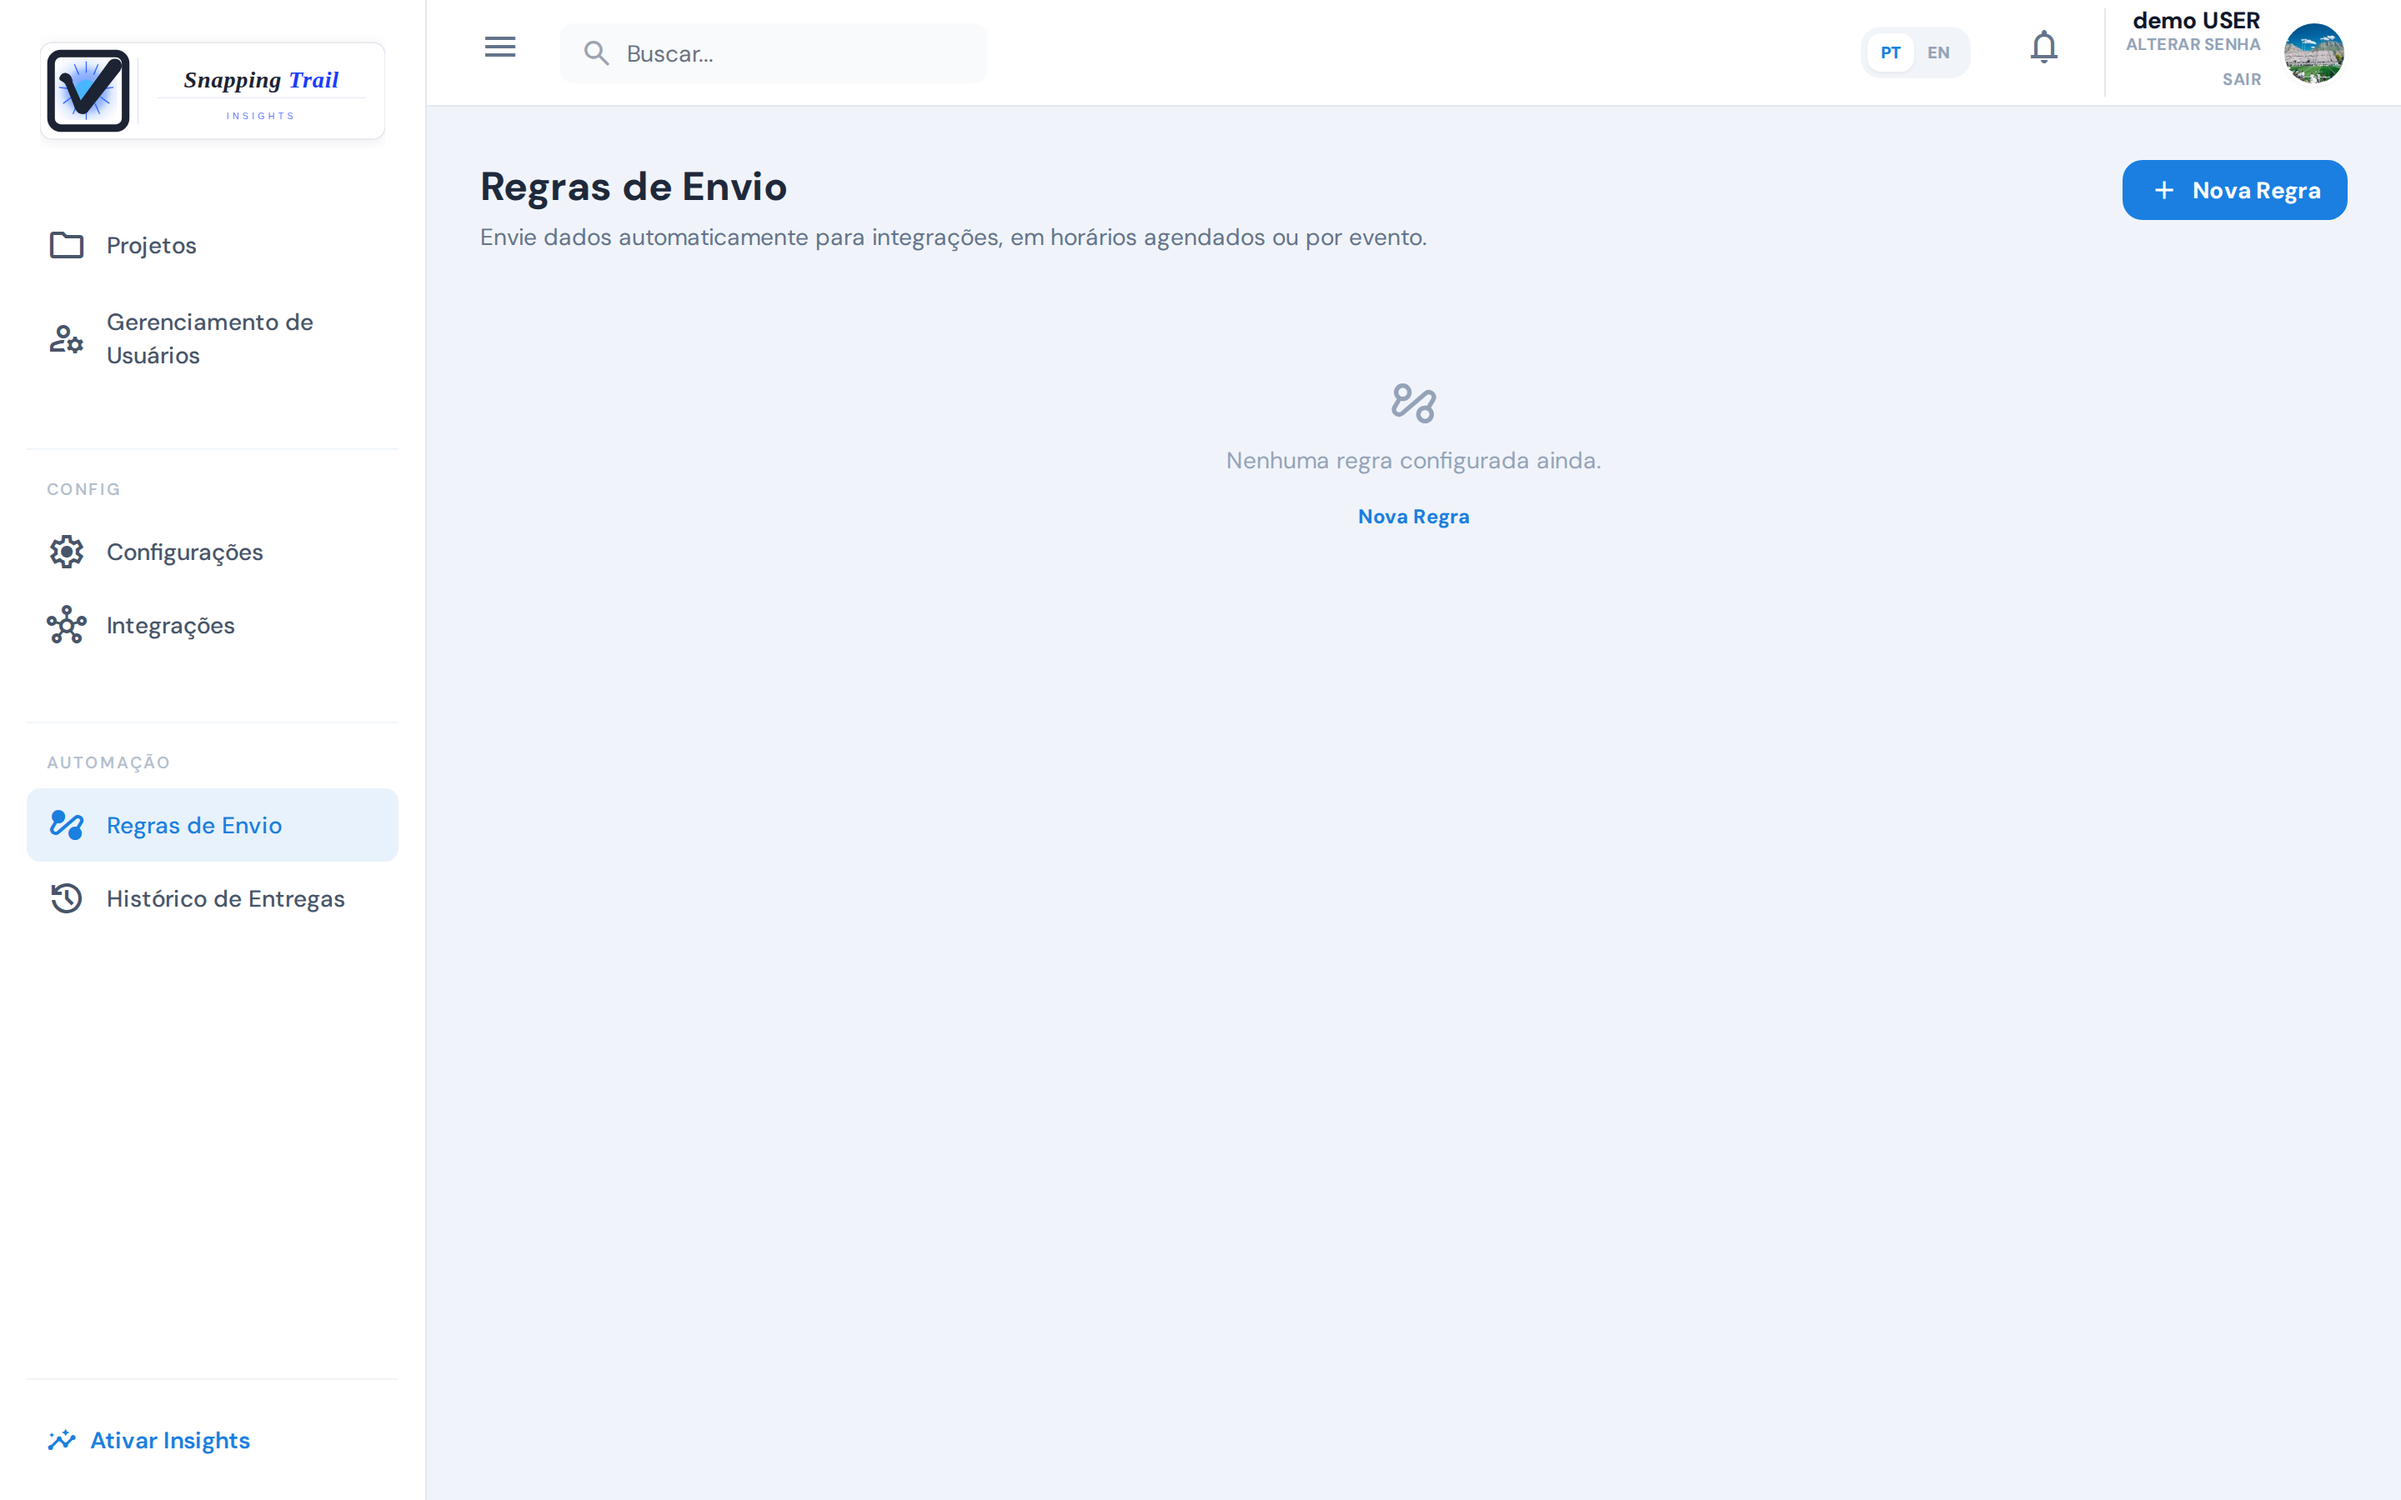
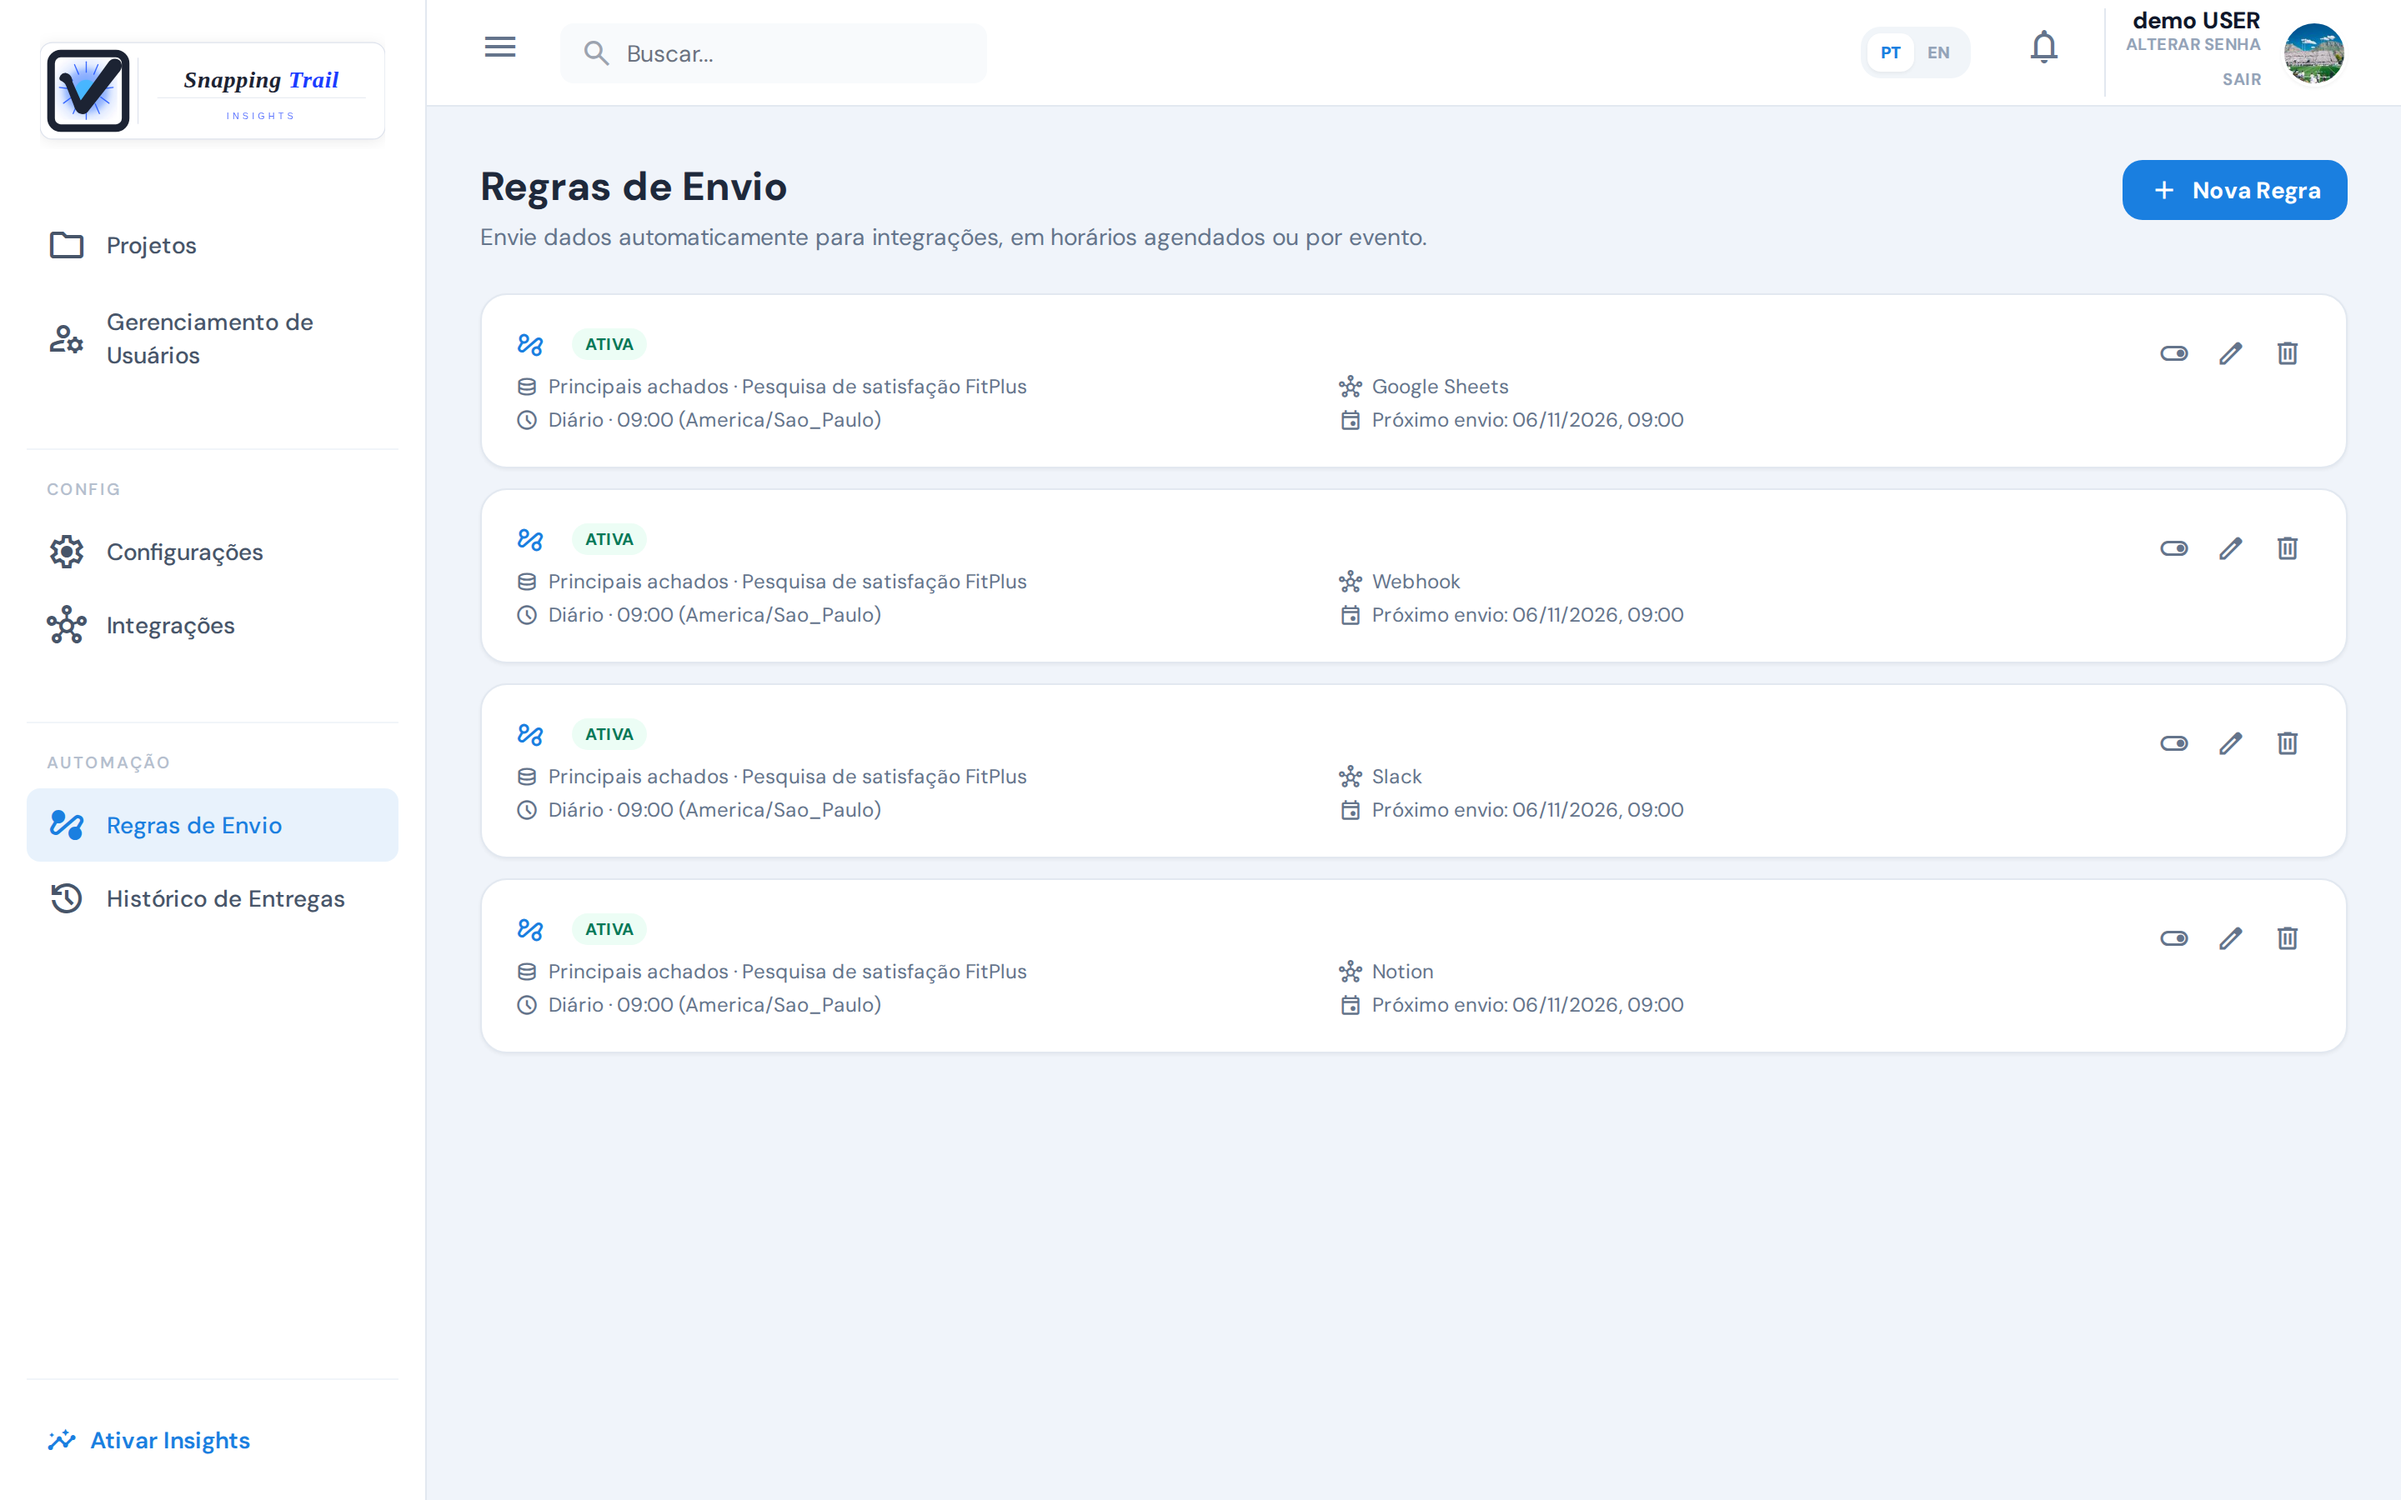
Describe deliveries that never lose interviews

diff --git a/i18n/pt/docusaurus-plugin-content-docs/current/integrations.md b/i18n/pt/docusaurus-plugin-content-docs/current/integrations.md
@@ -17,7 +17,7 @@ Um administrador os conecta em **Integrações**:
 | Notion | Uma seção datada acrescentada a uma página: o resumo, e os dados num "Ver dados" | Starter e Pro |
 | Webhook | Uma mensagem JSON, assinada se você definir um segredo, para os seus próprios sistemas | Starter e Pro |
 
-Cada destino tem um botão para conferi-lo antes que alguma regra o use: **Testar conexão** no Google Sheets e no Notion, **Enviar mensagem de teste** no Slack e **Conectar** no webhook. **Salvar Configurações** guarda o que você digitou.
+Cada destino tem um botão para conferi-lo antes que alguma regra o use: **Testar conexão** no Google Sheets e no Notion, **Enviar mensagem de teste** no Slack e **Conectar** no webhook. A resposta aparece embaixo do cartão, no idioma da tela: conectado, um campo ainda vazio ou o que o destino respondeu, com as mesmas palavras do histórico de entregas. **Salvar Configurações** guarda o que você digitou.
 
 ![A tela de Integrações](./img/integrations-screen-pt.png)
 
@@ -25,8 +25,9 @@ Cada destino tem um botão para conferi-lo antes que alguma regra o use: **Testa
 
 1. Crie uma conta de serviço no Google Cloud Console e ative a API do Google Sheets no projeto dela.
 2. Baixe a chave JSON da conta e cole em **Chave JSON da conta de serviço**. Depois de salva, a chave nunca mais é mostrada.
-3. Cole o **Spreadsheet ID** da planilha, a parte do endereço dela entre `/d/` e `/edit`.
-4. Compartilhe a planilha, como editora, com o e-mail da conta de serviço, o `client_email` da chave JSON.
+3. Cole o **ID da planilha**, a parte do endereço dela entre `/d/` e `/edit`.
+4. Clique em **Salvar Configurações**. O cartão passa a mostrar o **E-mail da conta de serviço**, com um botão **Copiar**.
+5. Compartilhe a planilha, como editora, com esse e-mail.
 
 Cada conteúdo ganha a sua aba, com o nome dele, criada na primeira entrega.
 
@@ -47,7 +48,7 @@ Informe a **URL do Webhook** que vai receber as mensagens e, de preferência, um
 Em **Regras de Envio**, um administrador escolhe o que enviar, para qual integração e quando:
 
 - **Agendado**: **Diário**, **Semanal** ou **Mensal**, numa hora no fuso da própria regra. Uma regra mensal num dia que o mês não tem é enviada no último dia do mês.
-- **Por evento**: quando algo acontece (veja abaixo).
+- **Por evento**: quando uma pesquisa atinge o mínimo para análise (uma vez por pesquisa) ou, para os sinais da empresa, quando uma entrevista é concluída e os sinais mudaram (veja abaixo).
 
 ![As regras de envio](./img/integrations-rules-pt.png)
 
@@ -58,7 +59,7 @@ O que uma regra pode enviar:
 | Principais achados | Os achados da pesquisa, como a tela os mostra no seu plano | ✓ | ✓ | Free |
 | Destaques por pergunta | Uma linha por pergunta: o que o card diz e a força | ✓ | ✓ | Free |
 | Diferenças entre segmentos | Cada segmento contra os demais, com a faixa de 95% e a taxa de cada segmento | ✓ | ✓ | Pro |
-| Lista de entrevistas | As entrevistas coletadas desde a execução anterior da regra | ✓ | — | Free |
+| Lista de entrevistas | As entrevistas coletadas desde a última entrega da regra que deu certo, na ordem em que foram concluídas | ✓ | — | Free |
 | Respostas das entrevistas | As respostas dessas entrevistas | ✓ | — | Free |
 | Sinais da empresa | Os sinais dos objetivos ativos da empresa | ✓ | ✓ | Pro |
 | Amostra atingida | Um aviso, em JSON, de que uma pesquisa atingiu a amostra mínima | — | ✓ | Pro |
@@ -89,7 +90,12 @@ A coluna **Detalhes** diz o que o destino respondeu, em palavras simples:
 - **Destino não respondeu a tempo**, **Sem resposta do destino** ou **Erro no destino**: o destino estava indisponível.
 - No Google Sheets e no Notion, ela também diz quando uma célula ou a planilha passou de um limite do Google Sheets (nada foi escrito), ou quando uma seção do Notion foi escrita sem os dados.
 
-Quando o destino está indisponível, lento ou pede para esperar, o envio é tentado de novo sozinho, até três vezes, com alguns segundos entre elas. Quando ele recusa (credencial ou endereço errado), não há nova tentativa. Um envio que falhou não é refeito depois: corrija a integração, e a próxima execução da regra passa. As entrevistas de uma execução que falhou, numa regra de lista ou de respostas das entrevistas, não são enviadas de novo.
+Quando o destino está indisponível, lento ou pede para esperar, o envio é tentado de novo sozinho, até três vezes, com alguns segundos entre elas. Quando ele recusa (credencial ou endereço errado), não há nova tentativa. Um envio que falhou não é refeito depois: corrija a integração, e a próxima execução da regra passa.
+
+Uma regra de lista ou de respostas das entrevistas nunca perde entrevistas:
+
+- Quando uma execução agendada falha, a próxima leva tudo o que ficou para trás, junto com o que veio depois.
+- Quando há mais entrevistas do que o limite de linhas do seu plano, a execução envia as primeiras concluídas, até o limite, e a próxima continua dali. Nenhuma entrevista é pulada nem enviada duas vezes, e as respostas de uma entrevista vão sempre juntas.
 
 ## Próximos passos
 

diff --git a/docs/integrations.md b/docs/integrations.md
@@ -17,7 +17,7 @@ An administrator connects them under **Integrations**:
 | Notion | A dated section added to a page: the summary, and the data in a "See the data" toggle | Starter and Pro |
 | Webhook | A JSON message, signed if you set a secret, for your own systems | Starter and Pro |
 
-Each destination has a button to check it before any rule uses it: **Test connection** for Google Sheets and Notion, **Send test message** for Slack and **Connect** for the webhook. **Save Settings** keeps what you typed.
+Each destination has a button to check it before any rule uses it: **Test connection** for Google Sheets and Notion, **Send test message** for Slack and **Connect** for the webhook. The answer appears under the card, in the screen's language: connected, a field still empty, or what the destination answered, in the same words as the delivery history. **Save Settings** keeps what you typed.
 
 ![The Integrations screen](./img/integrations-screen-en.png)
 
@@ -26,7 +26,8 @@ Each destination has a button to check it before any rule uses it: **Test connec
 1. Create a service account in the Google Cloud Console, and enable the Google Sheets API in its project.
 2. Download the account's JSON key and paste it into **Service account JSON key**. Once saved, the key is never shown again.
 3. Paste the spreadsheet's **Spreadsheet ID**, the part of its address between `/d/` and `/edit`.
-4. Share the spreadsheet as an editor with the service account's email, the `client_email` in the JSON key.
+4. Click **Save Settings**. The card then shows the **Service account email**, with a **Copy** button.
+5. Share the spreadsheet as an editor with that email.
 
 Each content gets its own tab, named after it, created on its first delivery.
 
@@ -47,7 +48,7 @@ Give the **Webhook URL** that will receive the messages and, ideally, a secret i
 Under **Delivery Rules**, an administrator chooses what to send, to which integration and when:
 
 - **Scheduled**: **Daily**, **Weekly** or **Monthly**, at an hour in the rule's own time zone. A monthly rule on a day the month does not have is sent on its last day.
-- **Event-driven**: when something happens (see below).
+- **Event-driven**: when a survey reaches its minimum for analysis (once per survey) or, for company signals, when an interview is completed and the signals changed (see below).
 
 ![The delivery rules](./img/integrations-rules-en.png)
 
@@ -58,7 +59,7 @@ What a rule can send:
 | Main findings | The survey's findings, as the screen shows them on your plan | ✓ | ✓ | Free |
 | Highlights by question | One line per question: what the card says and its strength | ✓ | ✓ | Free |
 | Segment differences | Each segment against the others, with the 95% range and each segment's rate | ✓ | ✓ | Pro |
-| Interview list | The interviews collected since the rule's previous run | ✓ | — | Free |
+| Interview list | The interviews collected since the rule's last delivery that went through, in the order they were completed | ✓ | — | Free |
 | Interview responses | The answers of those interviews | ✓ | — | Free |
 | Company signals | The signals of the company's active objectives | ✓ | ✓ | Pro |
 | Sample reached | A JSON notice that a survey reached its minimum sample | — | ✓ | Pro |
@@ -89,7 +90,12 @@ The **Details** column says what the destination answered, in plain words:
 - **Destination did not respond in time**, **No response from the destination** or **Error at the destination**: the destination was unavailable.
 - For Google Sheets and Notion, it also says when a cell or the spreadsheet passed a Google Sheets limit (nothing was written), or when a Notion section was written without its data.
 
-When the destination is unavailable, slow or asks to wait, the delivery is tried again on its own, up to three times a few seconds apart. When it refuses (a wrong credential or address), it is not tried again. A failed delivery is not sent again later: fix the integration, and the rule's next run goes through. The interviews of a failed run of an interview list or responses rule are not sent again.
+When the destination is unavailable, slow or asks to wait, the delivery is tried again on its own, up to three times a few seconds apart. When it refuses (a wrong credential or address), it is not tried again. A failed delivery is not sent again later: fix the integration, and the rule's next run goes through.
+
+An interview list or responses rule never loses interviews:
+
+- When a scheduled run fails, the next one sends everything left behind, with what came after.
+- When there are more interviews than your plan's row limit, the run sends the first ones completed, up to the limit, and the next run goes on from there. No interview is skipped or sent twice, and the answers of one interview always go together.
 
 ## Next steps
 
